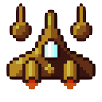
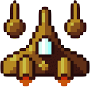
ryan

diff --git a/core/src/com/mygdx/game/Bullet.java b/core/src/com/mygdx/game/Bullet.java
@@ -29,7 +29,7 @@ public class Bullet {
     public Bullet() {
         sprite = new Sprite(manager.get("images/laser.png", Texture.class));
         //sprite = new Sprite(new Texture("badlogic.jpg"));
-        //sprite.setSize(YOUR WIDTH, YOUR HEIGHT);
+        sprite.setSize(MyGdxGame.scrWidth/32, MyGdxGame.scrWidth/10);
         sprite.setScale(sprite.getWidth(), sprite.getHeight());
         position = new Vector2();
         velocity = new Vector2();

diff --git a/core/src/com/mygdx/game/Enemy.java b/core/src/com/mygdx/game/Enemy.java
@@ -30,7 +30,7 @@ public class Enemy {
     }
 
     public Enemy(float x, float y) {
-        sprite.setSize(MyGdxGame.scrWidth/10, MyGdxGame.scrWidth/10);
+        sprite.setSize(MyGdxGame.scrWidth/8, MyGdxGame.scrWidth/8);
         sprite.setScale(sprite.getWidth(), sprite.getHeight());
         position = new Vector2();
         setPosition(x, y);

diff --git a/core/src/com/mygdx/game/ChooseShip5.java b/core/src/com/mygdx/game/ChooseShip5.java
@@ -10,6 +10,7 @@ public class ChooseShip5 extends Button {
     public ChooseShip5(float x, float y) {
         super(x, y);
         sprite = new Sprite(new Texture("images/space shooter small.png"));
+        sprite.setSize(MyGdxGame.scrWidth/8, MyGdxGame.scrWidth/8);
         setBounds();
     }
 

diff --git a/core/src/com/mygdx/game/ChooseShip2.java b/core/src/com/mygdx/game/ChooseShip2.java
@@ -10,6 +10,7 @@ public class ChooseShip2 extends Button {
     public ChooseShip2(float x, float y) {
         super(x, y);
         sprite = new Sprite(new Texture("images/blue spaceship.png"));
+        sprite.setSize(MyGdxGame.scrWidth/8, MyGdxGame.scrWidth/8);
         setBounds();
     }
 

diff --git a/core/src/com/mygdx/game/ChooseShip3.java b/core/src/com/mygdx/game/ChooseShip3.java
@@ -10,6 +10,7 @@ public class ChooseShip3 extends Button {
     public ChooseShip3(float x, float y) {
         super(x, y);
         sprite = new Sprite(new Texture("images/piq_109065.png"));
+        sprite.setSize(MyGdxGame.scrWidth/8, MyGdxGame.scrWidth/8);
         setBounds();
     }
 

diff --git a/core/src/com/mygdx/game/ChooseShip6.java b/core/src/com/mygdx/game/ChooseShip6.java
@@ -10,6 +10,7 @@ public class ChooseShip6 extends Button {
     public ChooseShip6(float x, float y) {
         super(x, y);
         sprite = new Sprite(new Texture("images/zero lines.png"));
+        sprite.setSize(MyGdxGame.scrWidth/8, MyGdxGame.scrWidth/8);
         setBounds();
     }
 

diff --git a/core/src/com/mygdx/game/ChooseShip7.java b/core/src/com/mygdx/game/ChooseShip7.java
@@ -10,6 +10,7 @@ public class ChooseShip7 extends Button {
     public ChooseShip7(float x, float y) {
         super(x, y);
         sprite = new Sprite(new Texture("images/spaceship1.png"));
+        sprite.setSize(MyGdxGame.scrWidth/8, MyGdxGame.scrWidth/8);
         setBounds();
     }
 

diff --git a/core/src/com/mygdx/game/ChooseShip8.java b/core/src/com/mygdx/game/ChooseShip8.java
@@ -10,6 +10,7 @@ public class ChooseShip8 extends Button {
     public ChooseShip8(float x, float y) {
         super(x, y);
         sprite = new Sprite(new Texture("images/spaceship3.png"));
+        sprite.setSize(MyGdxGame.scrWidth/8, MyGdxGame.scrWidth/8);
         setBounds();
     }
 

diff --git a/core/src/com/mygdx/game/ChooseShip1.java b/core/src/com/mygdx/game/ChooseShip1.java
@@ -10,6 +10,7 @@ public class ChooseShip1 extends Button {
     public ChooseShip1(float x, float y) {
         super(x, y);
         sprite = new Sprite(new Texture("images/Spaceship.png"));
+        sprite.setSize(MyGdxGame.scrWidth/8, MyGdxGame.scrWidth/8);
         setBounds();
     }
 

diff --git a/core/src/com/mygdx/game/ChooseShip4.java b/core/src/com/mygdx/game/ChooseShip4.java
@@ -10,6 +10,7 @@ public class ChooseShip4 extends Button {
     public ChooseShip4(float x, float y) {
         super(x, y);
         sprite = new Sprite(new Texture("images/piqship.png"));
+        sprite.setSize(MyGdxGame.scrWidth/8, MyGdxGame.scrWidth/8);
         setBounds();
     }
 

diff --git a/core/src/com/mygdx/game/Player.java b/core/src/com/mygdx/game/Player.java
@@ -70,6 +70,8 @@ public class Player {
             default:
                 break;
         }
+        sprite.setSize(2 * MyGdxGame.scrHeight/27, 2 * MyGdxGame.scrHeight/27);
+
     }
     //shoot bullets from the player!
     public void shoot(ArrayList<Bullet> bullets) {
